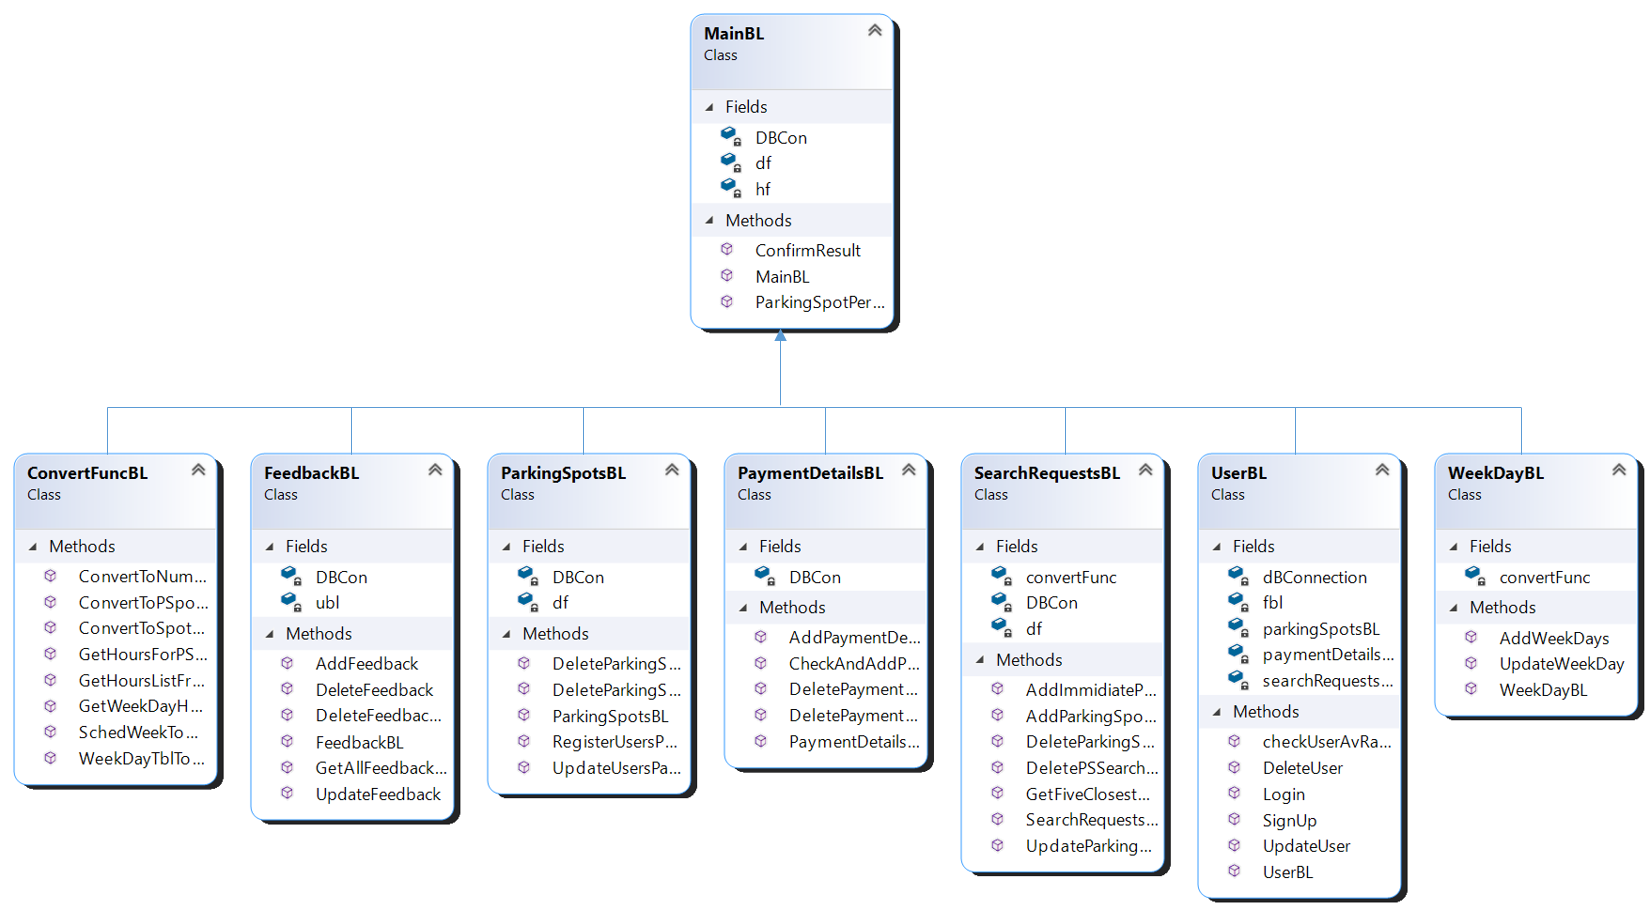
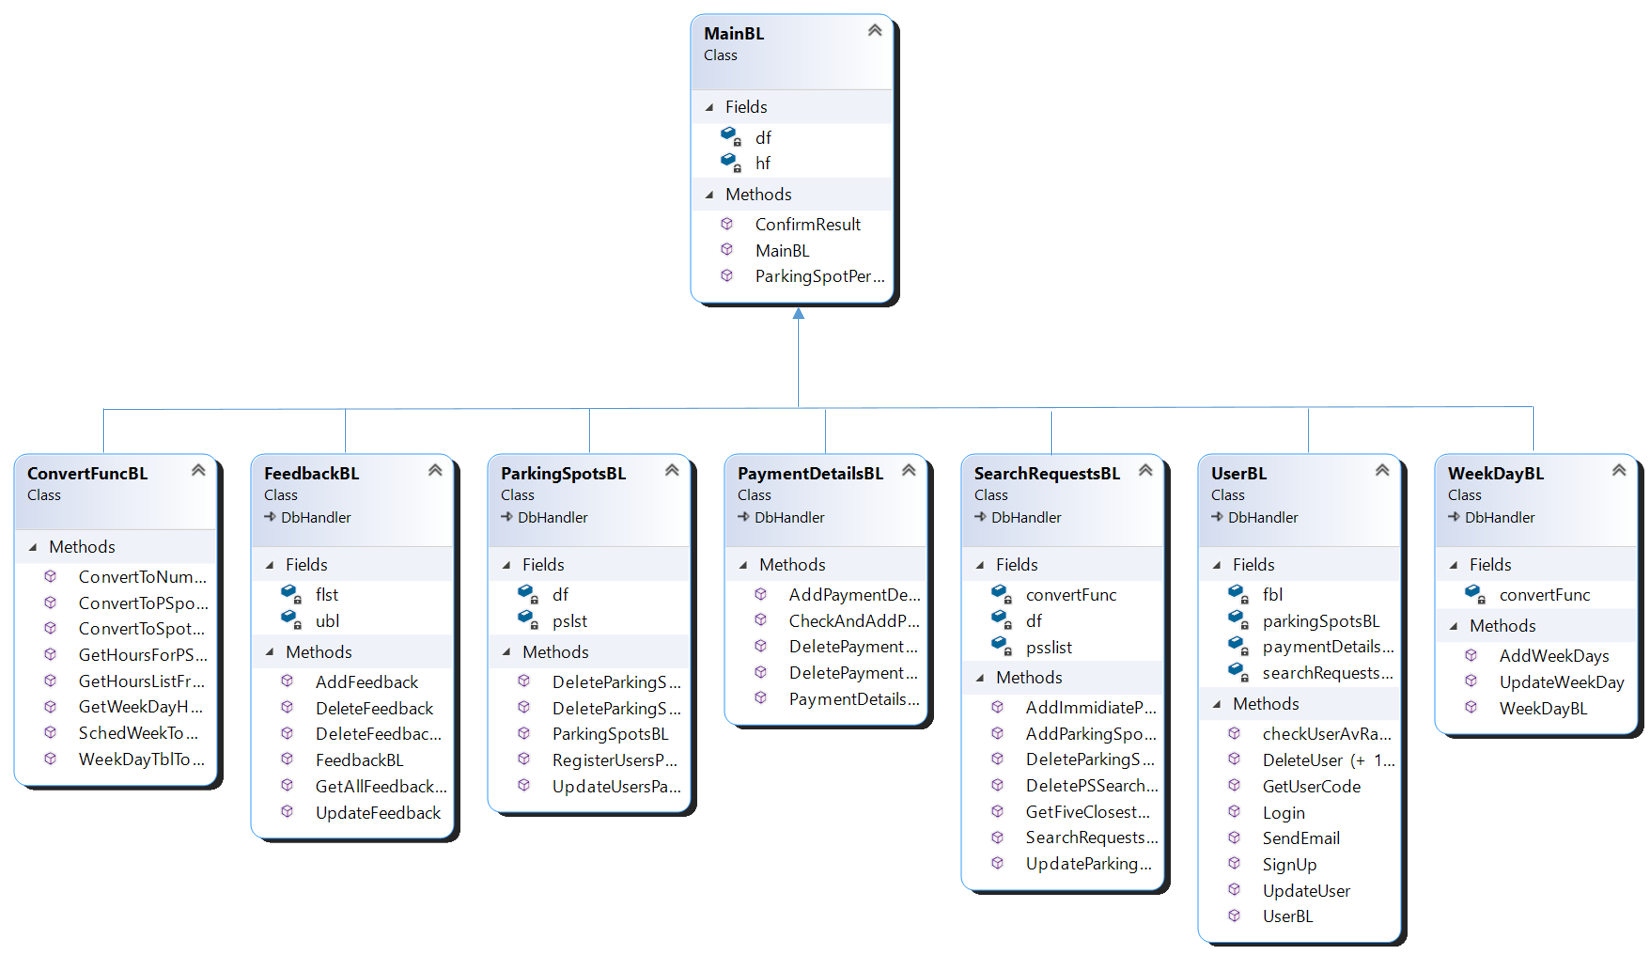
added password reset

diff --git a/BL/UserBL.cs b/BL/UserBL.cs
@@ -35,11 +35,38 @@ namespace BL
 
             return 0;
         }
-       
+
+        public int ConfirmValCode(string username, string valcode)
+        {
+            Entities.User user = DAL.Convert.UserConvert.ConvertUsersListToEntity(GetAll<User>()).First(u => u.Username == username.Trim());
+            if (user.UserPassword == valcode)
+                return user.Code;
+            return 0;
+
+        }
+
+        public int NewPassword(int usercode, string newPassword)
+        {
+            Entities.User user = DAL.Convert.UserConvert.ConvertUsersListToEntity(GetAll<User>()).First(u => u.Code == usercode);
+            user.UserPassword = newPassword;
+            UpdateSet<User>(DAL.Convert.UserConvert.ConvertUserToEF(user));
+            return GetUserCode(user.Username, user.UserPassword);
+
+        }
+
         // login function - returns user code
         public int Login(string username, string password)
         {
-            return GetUserCode(username, password);
+            int uc = GetUserCode(username, password);
+            if (uc == 0)
+            {
+                if (!Password(password, username))
+                    // incorrect password
+                    return 2;
+            }
+            return uc;
+
+
         }
         // update user function. returns code if succeeds.
         public int UpdateUser(Entities.User user)
@@ -95,7 +122,7 @@ namespace BL
             else
                 // because he doesn't have any feedbacks yet
                 return 1;
-            
+
         }
 
         private int DeleteUser(User user)
@@ -106,22 +133,22 @@ namespace BL
         //gets user code by username and password
         public int GetUserCode(string userName, string password)
         {
-            if (GetAll<User>().Any(u => u.Username == userName && u.UserPassword == password))
-                return (GetAll<User>().First(u => u.Username == userName && u.UserPassword == password)).Code;
-            return 0;//DAL.Converts.UserConvert.ConvertUserToEntity
+            if (DAL.Convert.UserConvert.ConvertUsersListToEntity(GetAll<User>()).Any(u => u.Username == userName && u.UserPassword == password))
+                return (DAL.Convert.UserConvert.ConvertUsersListToEntity(GetAll<User>()).First(u => u.Username == userName && u.UserPassword == password)).Code;
+            return 0;
         }
         // function that sends email to user
-        public int SendEmail()
+        public int SendEmail(string email, string username, string subject, string body)
         {
-            SendMail sendMail = new SendMail("blala", "shoshy.ustinov43770@gmail.com");
-            string body = "";
-            string subject = string.Format(" אימות סיסמא למשתמש {0}", "Shoshy");
-            body += "\nלתשומת לבך, מצורפת סיסמתך החדשה לכניסה למערכת";
-            body += string.Format(" :סיסמתך החדשה היא {0}", "56785");
+            SendMail sendMail = new SendMail(username, "parkmarkapp2021@gmail.com");
+
+            //subject = string.Format(" אימות סיסמא למשתמש {0}", "Shoshy");
+            //body += "\nלתשומת לבך, מצורפת סיסמתך החדשה לכניסה למערכת";
+            // body += string.Format(" :סיסמתך החדשה היא {0}", "56785");
             //מבצע את השליחה
             bool mailSend = sendMail.SendEMail(new MessageGmail()
             {
-                sendTo = "tamid.lehajeh@gmail.com",
+                sendTo = email,
                 Subject = subject,
                 Body = body,
                 IsBodyHtml = true
@@ -129,7 +156,26 @@ namespace BL
 
             return 0;
         }
-
+        // password verification
+        public bool Password(string password, string username)
+        {
+            return (DAL.Convert.UserConvert.ConvertUsersListToEntity(GetAll<User>()).First(u => u.Username == username).UserPassword == password);
+        }
+        //reset the password
+        public int ResetPassword(string username)
+        {
+            Entities.User user = DAL.Convert.UserConvert.ConvertUsersListToEntity(GetAll<User>()).First(u => u.Username == username.Trim());
+            Random rand = new Random();
+            int valcode = rand.Next(11111, 99999);
+            user.UserPassword = valcode.ToString();
+            UpdateSet<User>(DAL.Convert.UserConvert.ConvertUserToEF(user));
+            string subject = string.Format(" החלפת סיסמא למשתמש {0}", username);
+            string body = "";
+            body += "\nהכנס את הקוד הבא לצורך החלפת סיסמא לחדשה: ";
+            body += string.Format(" :הקוד לאימות: {0}", valcode);
+            SendEmail(user.UserEmail, username, subject, body);
+            return 1;
+        }
 
     }
 }

diff --git a/BL/Validation.cs b/BL/Validation.cs
@@ -1,0 +1,61 @@
+using DAL;
+using System;
+using System.Collections.Generic;
+using System.Linq;
+using System.Text;
+using System.Text.RegularExpressions;
+using System.Threading.Tasks;
+
+namespace BL
+{
+    public class Validation
+    {
+        //telephon
+        public static bool PhoneNum(string ph)
+        {
+            string pattern = @"^\+?(972|0)(\-)?0?(([23489]{1}\d{7})|[5]{1}\d{8})$";
+            Regex reg = new Regex(pattern);
+            return reg.IsMatch(ph);
+        }
+        public static bool IsHebrew(string word)
+        {
+            string pattern = @"\b[א-ת-\s ]+$";
+            Regex reg = new Regex(pattern);
+            return reg.IsMatch(word);
+
+        }        
+        //email
+        public static bool Email(string email)
+        {
+            Regex regex = new Regex(@"^([\w\.\-]+)@([\w\-]+)((\.(\w){2,3})+)$");
+            if(regex.IsMatch(email))
+                return true;
+            return false;
+        }
+        //numbers
+        public static bool Numbers(string num)
+        {
+            Regex reg = new Regex(@"[0-9]+$");
+            return reg.IsMatch(num);
+        }
+        //NaN
+        public static bool NaN(string str)
+        {
+            Regex regex = new Regex("^[^0-9]+$");
+            return regex.IsMatch(str);
+        }
+        //between 4-30 , digits and English letters allowa _ and -
+        public static bool Username(string username)
+        {
+            Regex regex = new Regex(@"^(?=.{4,30}$)(?:[a-zA-Z\d]+(?:(?:\.|-|_)[a-zA-Z\d])*)+$");
+            return regex.IsMatch(username);
+        }
+        //hebrew and english letters numbers and whitespaces
+        public static bool Text(string str)
+        {
+            Regex regex = new Regex(@"^[0-9a-zA-Zא-ת\s]*$");
+            return regex.IsMatch(str);
+        }
+
+    }
+}

diff --git a/API/Controllers/UserController.cs b/API/Controllers/UserController.cs
@@ -27,6 +27,33 @@ namespace API.Controllers
         }
 
         [AcceptVerbs("GET", "POST")]
+        [Route("logIn/{username}/resetPassword")]
+        [HttpGet]
+        // reseting by username + email 
+        public int ForgotPassword(string username)
+        {
+            return ubl.ResetPassword(username);
+        }
+
+        [AcceptVerbs("GET", "POST")]
+        [Route("logIn/confirmValcode/{username}/{valcode}")]
+        [HttpGet]
+        // mailed valditaion code confirmation. returns ucode if succeds, if not =0
+        public int ConfirmValCode(string username, string valcode)
+        {
+            return ubl.ConfirmValCode(username, valcode);
+        }
+
+        [AcceptVerbs("GET", "POST")]
+        [Route("logIn/setNewPassword/{ucode}/{newPassword}")]
+        [HttpGet]
+        // setting a new password 
+        public int NewPassword(int usercode, string newPassword)
+        {
+            return ubl.NewPassword(usercode, newPassword);
+        }
+
+        [AcceptVerbs("GET", "POST")]
         [Route("signUp")]
         [HttpPost]
         public int SignUp(User u)
